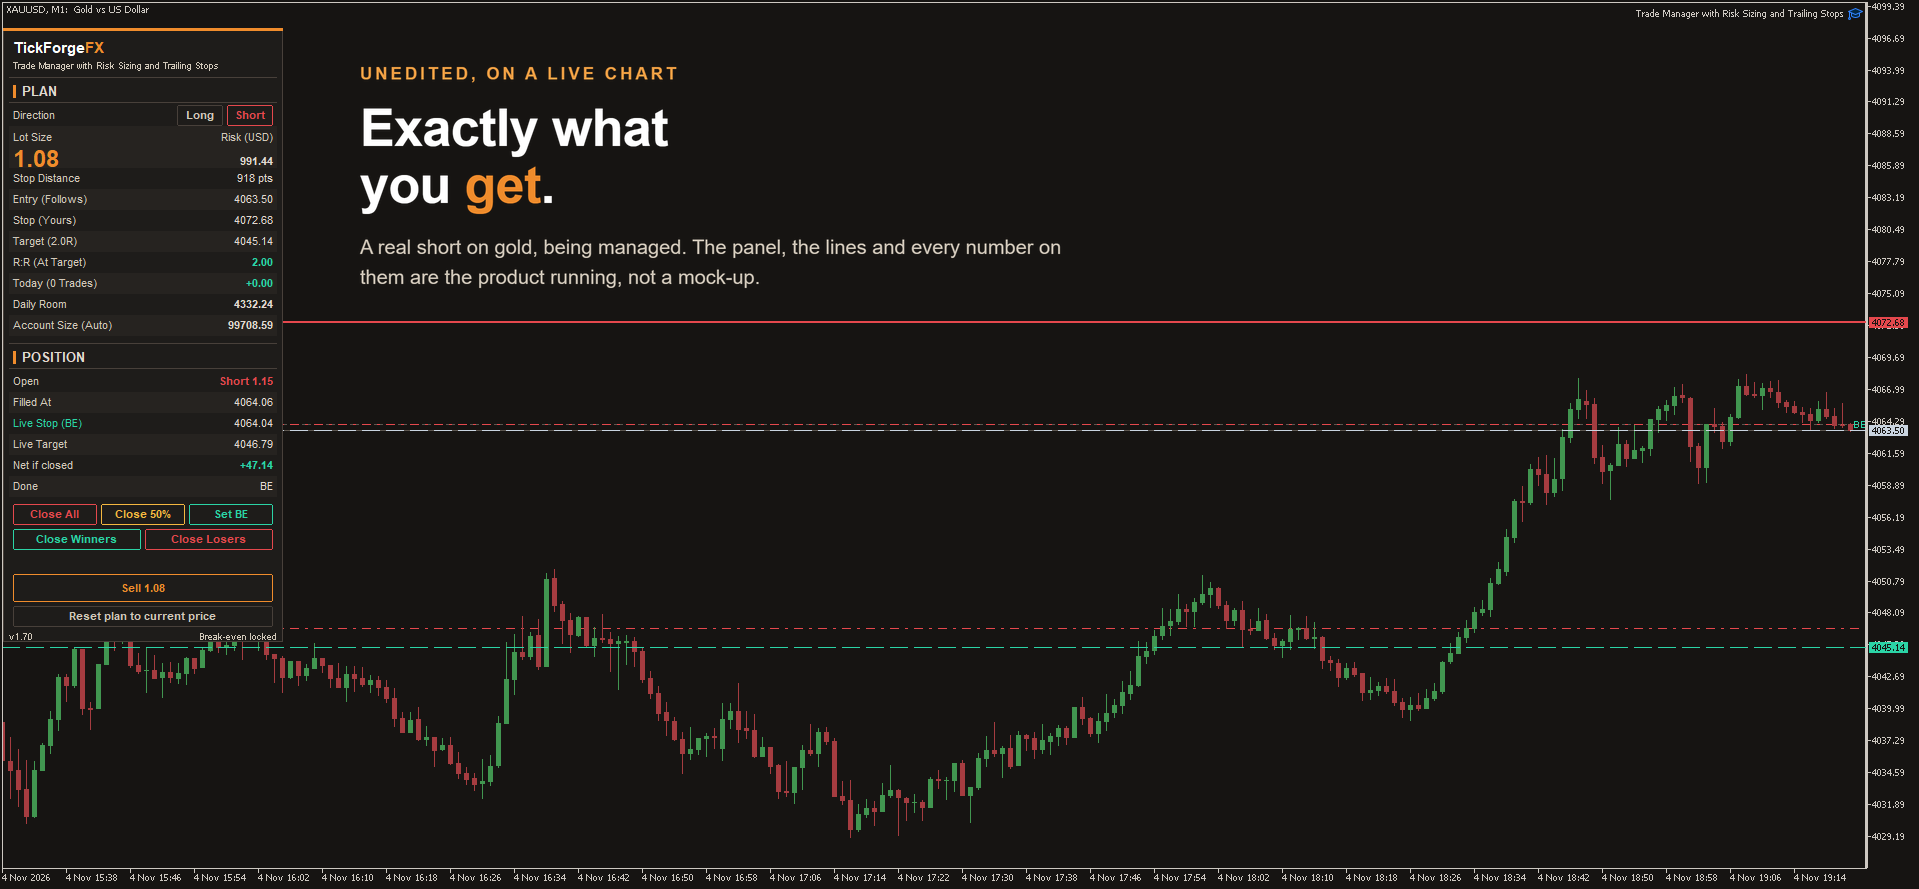
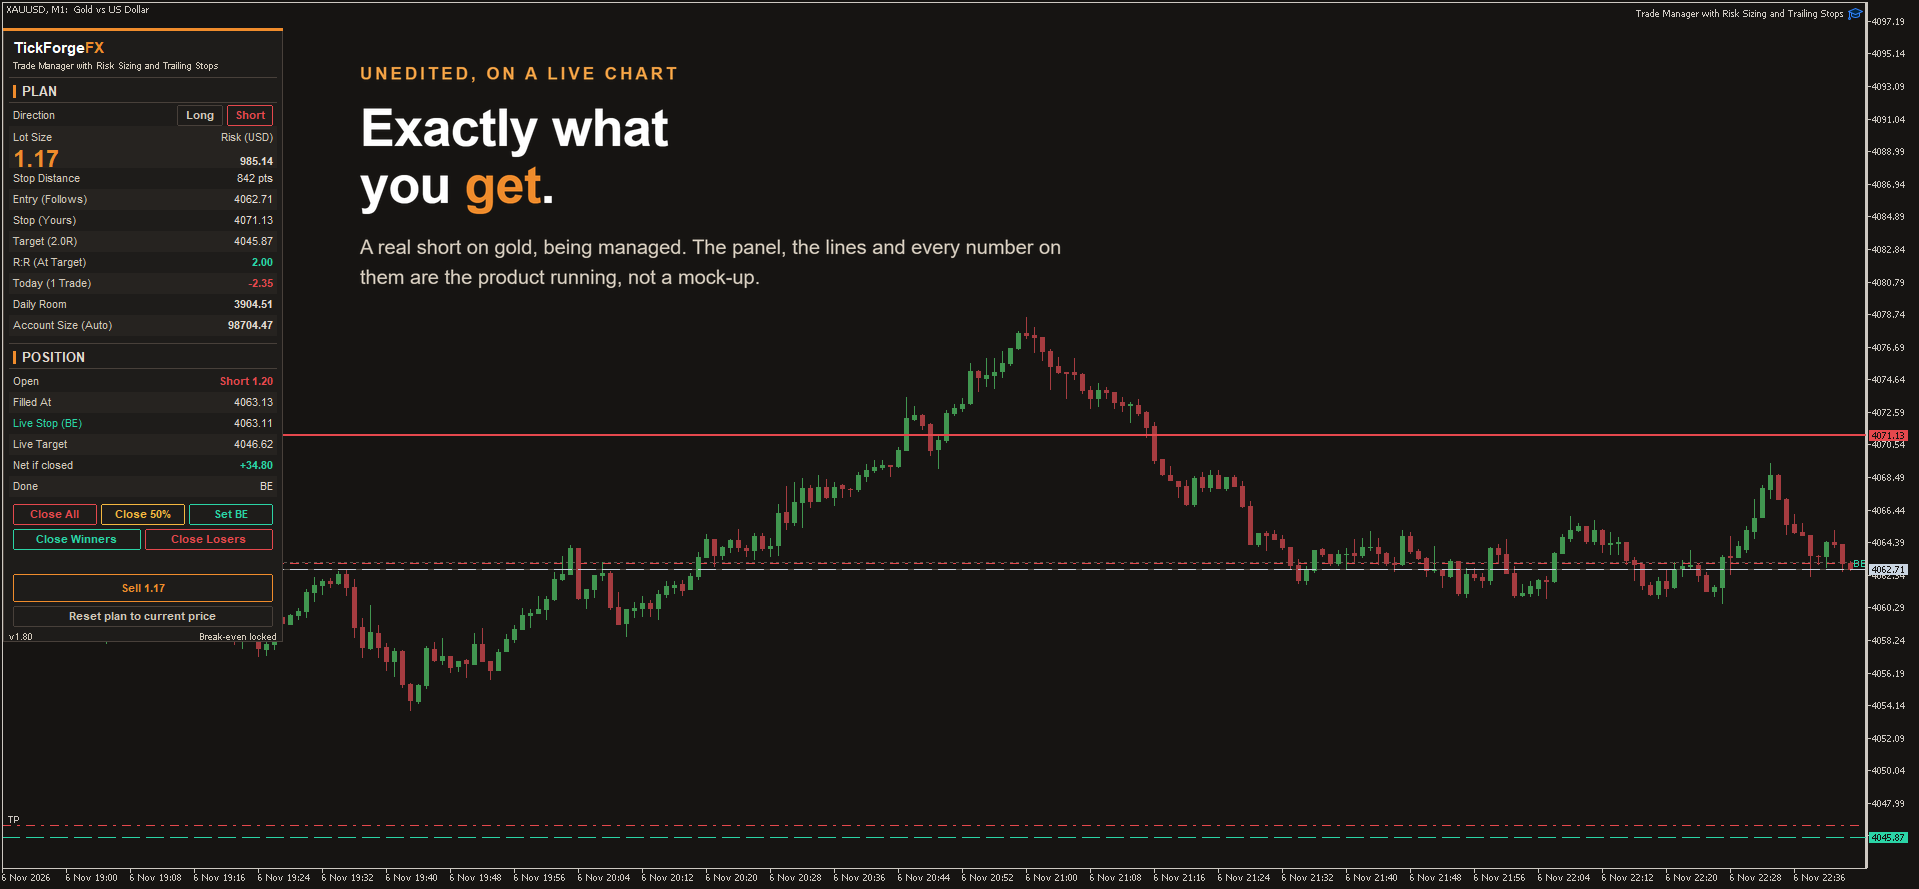
Trade Manager with Risk Sizing and Trailing Stops v1.80: the page now matches the live listing (orders sent in the background with a block on duplicates, risk as a fixed amount of money, keyboard shortcuts with letters you choose, seven trailing modes) and its chart image is the v1.80 one.

diff --git a/products/trade-manager-risk-sizing/PRODUCT_PAGE.md b/products/trade-manager-risk-sizing/PRODUCT_PAGE.md
@@ -12,7 +12,7 @@ It never decides to trade. There are no signals and no strategy in it. You choos
 
 - **A position size calculator.** Lot size for the percent you risk, money at risk, stop distance and reward-to-risk, recomputing as you drag.
 - **An order panel.** The button names what it is about to send, for example "Buy 0.06": a market order, or, once the entry is set not to follow price, the right pending order for where you put the entry line.
-- **A trade manager.** Break-even with up to two more lock steps, three partial closes and four trailing modes.
+- **A trade manager.** Break-even with up to two more lock steps, three partial closes and seven trailing modes.
 - **A loss limit that acts.** Daily and overall limits that close the trades it opened and refuse new entries when they are reached.
 
 One panel, one set of settings, and nothing to copy from one tool into another.
@@ -20,16 +20,22 @@ One panel, one set of settings, and nothing to copy from one tool into another.
 ## Size it, then send it
 
 - Drag the stop anywhere along its line and the lot size recomputes, so one percent is one percent whether the stop sits ten points away or two hundred.
-- Risk as a percent of balance or of equity, or of a fixed account size you type, so a good week does not quietly grow your position size.
+- Risk as a fixed amount of money, as a percent of balance or of equity, or as a percent of a fixed account size you type. A fixed amount or a typed size means a good week does not quietly grow your position size.
 - Prefer a rule to a drag? Put the stop a fixed number of points or an ATR multiple behind price, and lock the target to a reward-to-risk multiple so it follows.
 - A second click confirms before anything is sent, on by default. The confirmation expires on its own and is cancelled the moment you move a line.
 - Your plan is saved per symbol, so a timeframe change or a restart never quietly rebuilds it from wherever price happens to be.
+
+## The panel never waits for your broker
+
+- Orders, closes and stop moves go out in the background, so the card stays live while your broker answers. The Place button says it is sending and counts the seconds, so a slow server reads as a slow server, not a frozen panel.
+- One press is one order. A second press while an order is out, or within a second of its going through, sends nothing and tells you why, so a double click cannot open a second trade.
+- If an order gets no answer in 30 seconds, the card says so and an alert asks you to check. A refusal reaches the card when it arrives, with the broker's reason.
 
 ## Then it manages the trade, on every tick
 
 - **Break-even** at your trigger, locking a buffer beyond entry rather than exactly on it, then up to two further steps that lock more as the trade runs.
 - **Three partial closes**, each taken from what is left rather than from the original size. The third arrives switched off.
-- **Four trailing modes**: a fixed distance, an ATR multiple, Chandelier below the highest high since entry, or behind the last N closed candles.
+- **Seven trailing modes**: a fixed distance, an ATR multiple, Chandelier below the highest high since entry, behind the last N closed candles, on a moving average, on the Parabolic SAR, or keeping a share of the trade's best profit.
 - **Triggers in points, ATR multiples, R multiples or your account currency**, whichever suits how you trade.
 - **Every trade on the symbol**, however it got there: from this panel, with F9, from the phone app or by another EA. One dropdown limits it to only the trades it opened.
 - **A trade with no stop** can be given one at your planned distance, measured from that trade's own open price. Off until you switch it on.
@@ -37,7 +43,7 @@ One panel, one set of settings, and nothing to copy from one tool into another.
 
 ## Five buttons for when you want out
 
-As soon as a position exists the card shows Close All, Close 50%, Set BE, Close Winners and Close Losers. Each one asks for a second click before it acts, which you can switch off, and each reports what it did, including when the honest answer is that there was nothing to close.
+As soon as a position exists the card shows Close All, Close 50%, Set BE, Close Winners and Close Losers. Each one asks for a second click before it acts, which you can switch off, and each reports what it did, including when the honest answer is that there was nothing to close. Shift and a letter can press them too, and Long, Short, Place and Reset. Keyboard shortcuts are off until you switch them on, and they stay clear of MetaTrader's own keys. You choose each button's letter, or switch any one off.
 
 ## The day it matters: a loss limit that acts
 
@@ -59,15 +65,15 @@ As soon as a position exists the card shows Close All, Close 50%, Set BE, Close 
 - Works on netting and hedging accounts, on any symbol your broker offers.
 - It manages the symbol of the chart it is on, and only that. Put it on each chart you trade.
 - It is an Expert Advisor, and MetaTrader runs one Expert Advisor per chart. To use it beside another EA on the same symbol, attach it to a second chart of that symbol and set Manage to "Only trades this tool opened", so it leaves that EA's trades to that EA.
-- Every stage fires at most once per position, and that memory survives a restart, a recompile and a change of ticket.
+- Each partial close fills at most once per position, and that memory survives a restart, a recompile and a change of ticket. Break-even is checked on every tick, so a stop moved back behind it is moved forward again.
 - A partial needs a position big enough to split. On a symbol whose smallest tradable size is 0.01, Partial 1 needs 0.02 or more.
-- On a trade that arrived with no stop, the ATR, Chandelier and candle trails can set its first stop on the losing side of entry, where the volatility or the structure puts it. Break-even, the extra lock steps and the fixed-distance trail never do.
+- On a trade that arrived with no stop, the ATR, Chandelier, candle, moving average and Parabolic SAR trails can set its first stop on the losing side of entry, where the volatility or the structure puts it. Break-even, the extra lock steps, the fixed-distance trail and the best profit trail never do.
 - An optional history section shows win rate, profit factor, average per trade and your best and worst day, read from your broker's own closed deals.
 - Partials, break-even, trailing, the target line, the alerts and the account limits can each be switched off. With all of them off it is simply a risk-sized entry panel.
 
 ## About the demo
 
-On this market a paid product's demo runs only in the Strategy Tester. You can place a trade from the panel there and watch break-even, the partial closes and the trailing stop run as the test advances. MetaTrader sends no mouse events to an Expert Advisor in a test, so the lines cannot be dragged there: set the stop in Points or ATR mode instead. Alerts cannot be delivered in the tester, but each event still shows in the panel footer, on the chart and in the log. In a non-visual run on a netting account funded under 2000, which is how this market's automated check runs it, it opens minimum-lot sample trades by itself and says so in the journal. In a visual run it never trades unless you press a button.
+On this market a paid product's demo runs only in the Strategy Tester. You can place a trade from the panel there and watch break-even, the partial closes and the trailing stop run as the test advances. MetaTrader sends no mouse events to an Expert Advisor in a test, so the lines cannot be dragged there: set the stop in Points or ATR mode instead. Alerts cannot be delivered in the tester, but each event still shows in the panel footer, on the chart and in the log. In a non-visual run on a netting account funded under 2000, which is how this market's automated check runs it, it opens minimum-lot sample trades by itself and says so in the journal. In a visual run it never trades unless you press a button. The tester answers every order at once, so the sending state does not show there, and it sends no keyboard events, so the shortcuts do nothing.
 
 ## A user guide and presets, for buyers
 
@@ -81,6 +87,6 @@ Built by TickForgeFX.
 
 ---
 
-Current version: **1.60**
+Current version: **1.80**
 
 On the MQL5 Market: [Trade Manager with Risk Sizing and Trailing Stops](https://www.mql5.com/en/market/product/189281)
